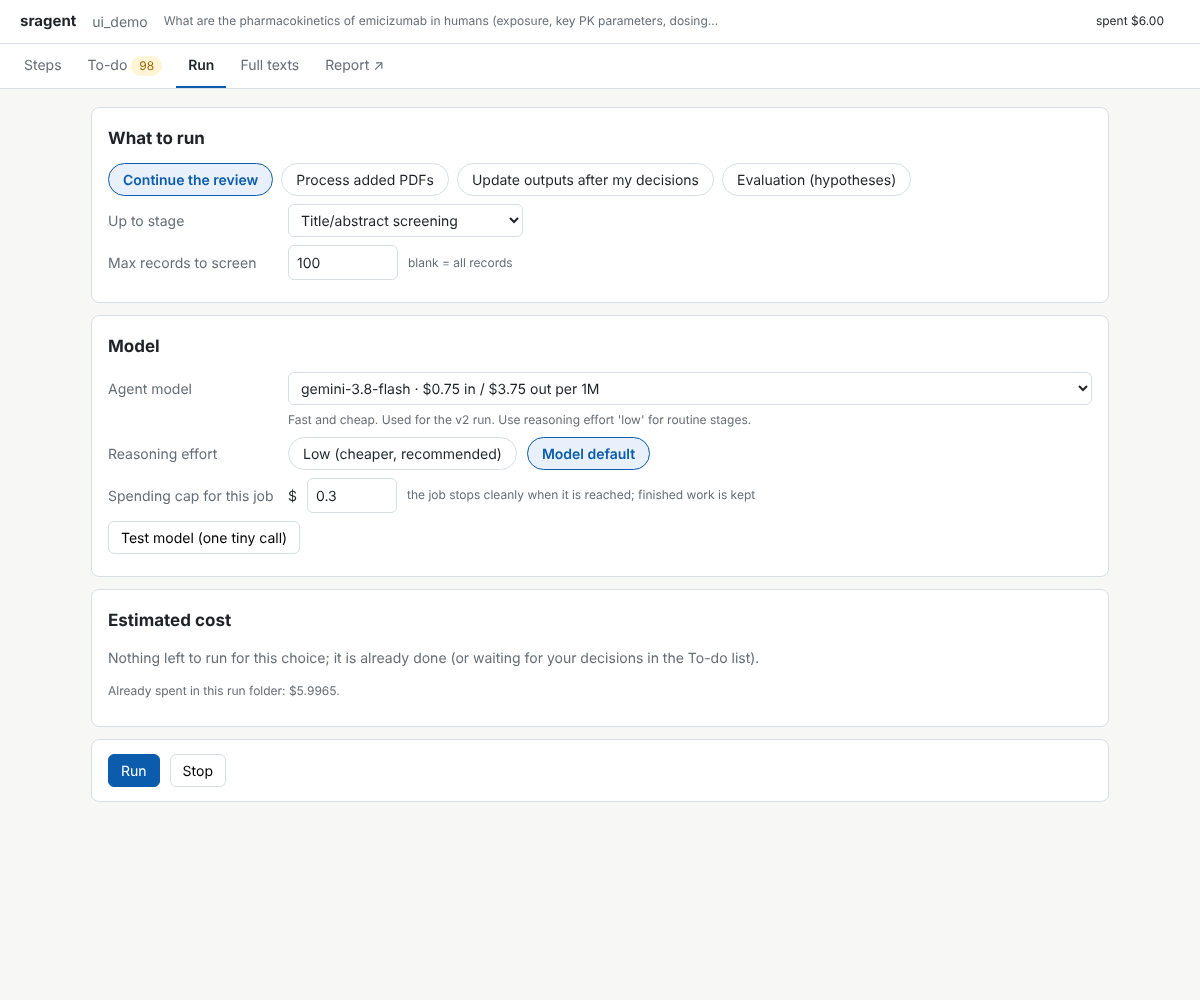
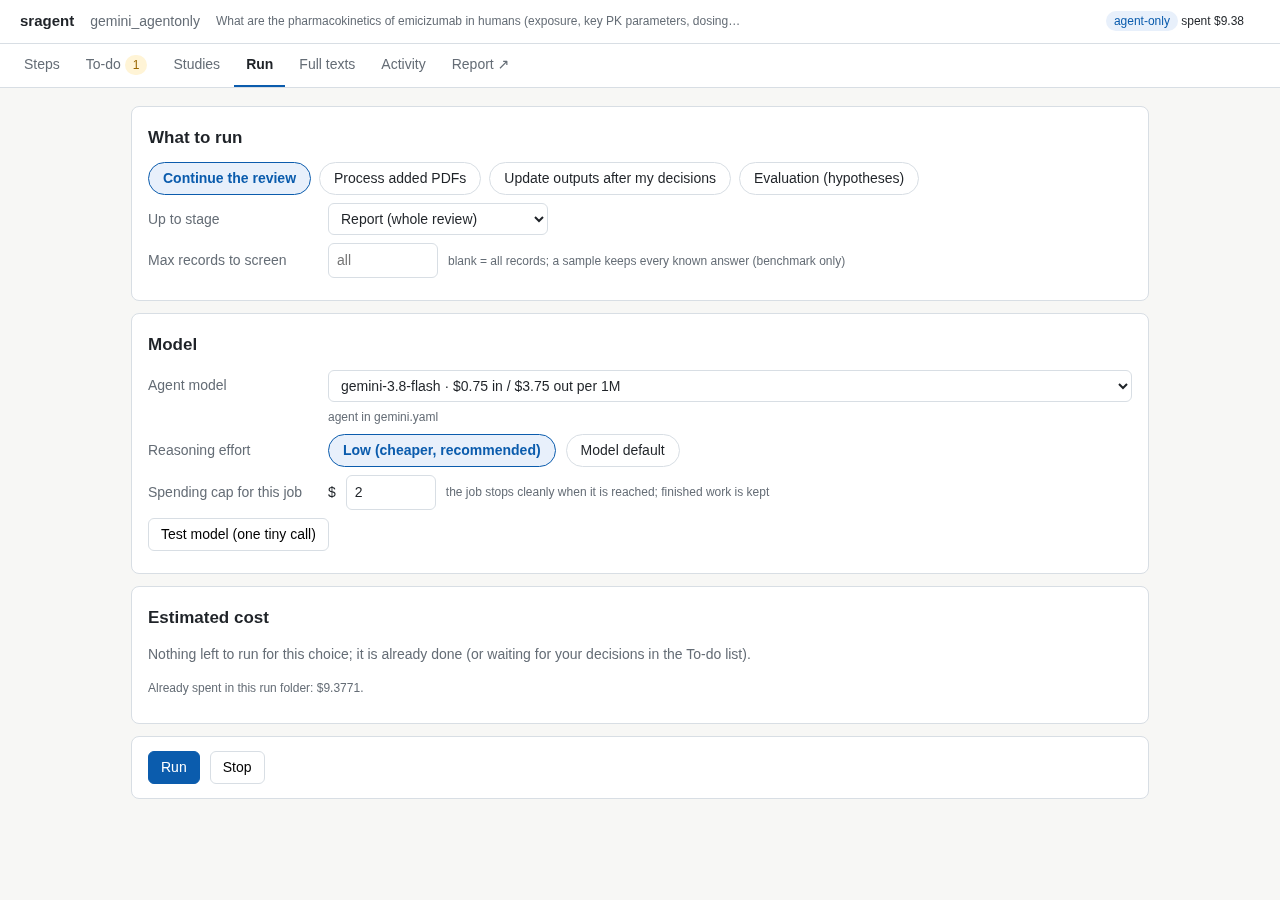
Fix agent-only UI, detect PDFs by content, refresh screenshots
- Show every blocked full text in the to-do list (only "asked for" ones appeared)
- Agent-only mode: hide re-run, edit and send-to-agent controls; protocol step no longer asks for approval
- Detect supplied PDFs by SHA-256 instead of modification time, so copied run folders work
- Document the optional verifier role; update GUIDE module list and UI notes
- Retake screenshots from the current UI; drop the revision screenshot

diff --git a/sragent/ui/static/index.html b/sragent/ui/static/index.html
@@ -528,9 +528,10 @@ function renderStudies(){
        <button class="btn" onclick="loadStudies()">Refresh</button></div></div>
    <div class="card"><h3>Comment on the whole review</h3>
      <textarea id="revc" oninput="ST.revc=this.value" placeholder="e.g. 'Re-check every population statement for scope' or a note for your co-reviewer">${esc(ST.revc||"")}</textarea>
-     <div class="row"><span class="small mut">Agent model</span>${modelPicker(ST, "agent")}
+     ${judging() ? `<div class="row"><span class="small mut">Agent model</span>${modelPicker(ST, "agent")}
        <button class="primary btn" onclick="reviewComment(true)">Send to the agent</button><button class="btn" onclick="reviewComment(false)">Save as a comment only</button><span id="revcm"></span></div>
-     <div class="hint">Sent comments go through the same check as feedback: the agent finds the output it is about, checks it against the source and proposes a change set that you approve in the To-do list.</div></div>
+     <div class="hint">Sent comments go through the same check as feedback: the agent finds the output it is about, checks it against the source and proposes a change set that you approve in the To-do list.</div>`
+     : `<div class="row"><button class="btn" onclick="reviewComment(false)">Save as a comment</button><span id="revcm"></span></div>${AGENT_ONLY_NOTE}`}</div>
    <div class="card" style="padding:0"><table><tr><th>ID</th><th>Study</th><th>Status</th><th>Source</th><th>Flags</th><th>RoB</th><th>Cited in</th><th>💬</th></tr>${rows}</table>
      ${F.length>400?`<p class="small mut" style="padding:8px">Showing 400 of ${F.length}; narrow the filter.</p>`:""}</div>`;
   if (hadFocus) { const qi = $("#studyq"); qi.focus(); qi.setSelectionRange(qi.value.length, qi.value.length); }
@@ -551,6 +552,10 @@ async function openStudy(rid, keepEdit){
 }
 function backToList(){ ST.rid = null; ST.d = null; loadStudies(); }
 function evList(ev){ return (ev||[]).map(e => `<div class="small"><span class="chip">${esc(e.sid)} · ${esc(e.section)}</span> <span class="mut">“${esc(e.text)}”</span></div>`).join(""); }
+// Agent-only mode: people may only supply requested full texts, so judgment controls are not shown
+// (the server refuses them anyway). Comments can still be saved as annotations.
+function judging(){ return !(S && S.run.human_mode === "agent_only"); }
+const AGENT_ONLY_NOTE = `<div class="hint">Agent-only mode: people may only supply the full texts the agent requested, so re-runs, edits and comments sent to the agent are not available. Comments can be saved as notes.</div>`;
 function sec(title, body, right){ return `<div class="card"><div class="row" style="margin:0 0 6px"><h3 style="flex:1;margin:0">${title}</h3>${right||""}</div>${body}</div>`; }
 function renderStudy(){
   const d = ST.d; if (!d) return;
@@ -573,7 +578,7 @@ function renderStudy(){
   // agent actions
   const steps = [["screen","Screening (eligibility)"]].concat(d.group==="included" ? [["extract","Data extraction"]] : []).concat(d.extraction && d.group==="included" ? [["rob","Risk of bias"]] : []);
   const rr = ST.rr;
-  out.push(sec("Ask the agent", `
+  if (judging()) out.push(sec("Ask the agent", `
     <div class="row"><label class="k">Re-run this step</label>${steps.map(([v,l]) => `<span class="opt ${rr.step===v?"sel":""}" onclick="ST.rr.step='${v}';renderStudy();studyEst()">${l}</span>`).join("")}</div>
     <div class="row"><label class="k">Model</label>${modelPicker(ST.rr, "agent")}</div>
     <div class="row"><label class="k">Note for the agent</label><textarea style="flex:1" placeholder="optional, e.g. 'the table on page 5 has the steady-state troughs'" oninput="ST.rr.note=this.value">${esc(rr.note||"")}</textarea></div>
@@ -598,7 +603,7 @@ function renderStudy(){
         ${s.llm_reason?`<div class="small mut">Agent: ${esc(s.llm_reason)}</div>`:""}
         ${s.title_abstract?`<div class="small mut">Title/abstract stage: ${esc(s.title_abstract.decision)}</div>`:""}
         ${crit?`<table style="margin-top:6px"><tr><th>Criterion</th><th></th><th>Assessment</th><th>Evidence</th></tr>${crit}</table>`:""}${ed}`,
-      E.kind==="screen" ? "" : `<button class="btn" onclick="ST.edit={kind:'screen',decision:'${s.decision}',criterion:'',note:''};renderStudy()">Edit</button>`));
+      E.kind==="screen" || !judging() ? "" : `<button class="btn" onclick="ST.edit={kind:'screen',decision:'${s.decision}',criterion:'',note:''};renderStudy()">Edit</button>`));
   }
   // extraction
   if (d.extraction) {
@@ -612,7 +617,7 @@ function renderStudy(){
       `<table><tr><th>Item</th><th>Value</th><th>Evidence (sentence id · section)</th></tr>${rows}</table>
        ${editing?`${editNote()}<div class="row"><button class="primary btn" onclick="saveEdit()">Save (no LLM)</button><button class="btn" onclick="ST.edit=null;renderStudy()">Cancel</button><span id="edmsg"></span></div>
        <div class="hint">The cited sentences stay as the agent's evidence; your value is marked as edited, and the outputs that use it are listed in the To-do list for an optional update.</div>`:""}`,
-      editing ? "" : `<button class="btn" onclick="editExt()">Edit values</button>`));
+      editing || !judging() ? "" : `<button class="btn" onclick="editExt()">Edit values</button>`));
   }
   // rob
   if (d.rob) {
@@ -626,7 +631,7 @@ function renderStudy(){
     out.push(sec(`Risk of bias <span class="small mut">overall <b>${esc(b.overall)}</b> · ${b.confirmed?"confirmed":"draft"} · v${b.version}</span>`,
       `<table><tr><th>Domain</th><th>Judgment</th><th>Rationale</th><th>Evidence</th></tr>${rows}</table>
        ${editing?`${editNote()}<div class="row"><button class="primary btn" onclick="saveEdit()">Save and confirm (no LLM)</button><button class="btn" onclick="ST.edit=null;renderStudy()">Cancel</button><span id="edmsg"></span></div>`:""}`,
-      editing ? "" : `<button class="btn" onclick="editRob()">Edit domains</button>`));
+      editing || !judging() ? "" : `<button class="btn" onclick="editRob()">Edit domains</button>`));
   }
   // synthesis
   if (d.synthesis.length) {
@@ -637,7 +642,7 @@ function renderStudy(){
            <div class="row"><label class="small mut">cites</label><input style="flex:1" value="${esc(E.cites)}" oninput="ST.edit.cites=this.value"></div>${editNote()}
            <div class="row"><button class="primary btn" onclick="saveEdit()">Save (no LLM)</button><button class="btn" onclick="ST.edit=null;renderStudy()">Cancel</button><span id="edmsg"></span></div>`
         : `${esc(s.text)} <span class="small mut">cites ${esc(s.cites.join(", "))} · self-check ${esc(s.support||"-")}</span>
-           <button class="link small" onclick="editSyn('${s.id}')">edit</button>`}</div>`; }).join("")));
+           ${judging() ? `<button class="link small" onclick="editSyn('${s.id}')">edit</button>` : ""}`}</div>`; }).join("")));
   }
   // proposals
   if (d.proposals.length) {
@@ -657,8 +662,9 @@ function renderStudy(){
       <div>${esc(c.text)}</div>${c.status==="open"?`<button class="link small" onclick="resolveComment('${c.id}')">mark resolved</button>`:`<div class="small mut">${esc(c.resolution||"")}</div>`}</div>`).join("")}
     <div class="row"><label class="small mut">About</label><select id="ctarget" onchange="ST.ctarget=this.value">${targets.map(([v,l]) => `<option value="${v}" ${ST.ctarget===v?"selected":""}>${esc(l)}</option>`).join("")}</select></div>
     <textarea id="ctext" placeholder="Your comment" oninput="ST.rcomment=this.value">${esc(ST.rcomment)}</textarea>
-    <div class="row"><button class="primary btn" onclick="studyComment(true)">Send to the agent</button><button class="btn" onclick="studyComment(false)">Save as a comment only</button><span id="cmsg"></span></div>
-    <div class="hint">"Send to the agent" uses the model chosen under "Ask the agent" above. The agent checks your comment against the source text; if it agrees it proposes a revision (shown above and in the To-do list), if it disagrees it explains why.</div>`));
+    ${judging() ? `<div class="row"><button class="primary btn" onclick="studyComment(true)">Send to the agent</button><button class="btn" onclick="studyComment(false)">Save as a comment only</button><span id="cmsg"></span></div>
+    <div class="hint">"Send to the agent" uses the model chosen under "Ask the agent" above. The agent checks your comment against the source text; if it agrees it proposes a revision (shown above and in the To-do list), if it disagrees it explains why.</div>`
+    : `<div class="row"><button class="btn" onclick="studyComment(false)">Save as a comment</button><span id="cmsg"></span></div>${AGENT_ONLY_NOTE}`}`));
   // history
   out.push(sec(`History <span class="chip">${d.history.length}</span>`, `<table><tr><th>When</th><th>Output</th><th>What</th><th>Who</th><th>Why</th></tr>
      ${d.history.slice().reverse().map(h => `<tr><td class="small" style="white-space:nowrap">${fmtT(h.ts)}</td><td class="small">${esc(h.node)}</td>

diff --git a/sragent/stages/fulltext.py b/sragent/stages/fulltext.py
@@ -14,8 +14,10 @@ after adding files; it converts them and re-screens / re-extracts the affected s
 from __future__ import annotations
 
 import csv
+from functools import lru_cache
 from pathlib import Path
 
+from .. import provenance
 from ..context import Ctx
 from ..sources import europepmc
 
@@ -109,7 +111,6 @@ def fetch_one(ctx: Ctx, rid: str) -> dict:
     oa_locs: list[dict] = []
     listed_supp: list[dict] = []
     if local is not None:
-        from .. import provenance
         dig = provenance.file_digest(local)
         if not any(e.get("sha256") == dig["sha256"] for e in provenance.events(ctx.run_dir)):
             provenance.record(ctx, "pdf_provision", "supplied", rid=rid, **dig)
@@ -155,8 +156,7 @@ def fetch_one(ctx: Ctx, rid: str) -> dict:
             "oa_locations": [{k: l.get(k) for k in ("url", "pdf", "host", "version", "license", "source", "download_status")}
                              for l in oa_locs][:5],
             "supplements_listed": listed_supp[:10], "supplements_used": supp_used,
-            "local_file": local.name if local else None,
-            "local_mtime": local.stat().st_mtime if local else None}
+            "local_file": local.name if local else None}
     st.upsert(f"ft:{rid}", "fulltext", data, depends_on=[f"rec:{rid}"], reason=f"retrieved ({origin}; {parser or 'abstract'})")
     return data
 
@@ -200,9 +200,23 @@ def write_needed_pdfs(ctx: Ctx) -> Path:
     return p
 
 
+@lru_cache(maxsize=4096)
+def _sha(path: str, size: int, mtime_ns: int) -> str:
+    return provenance.file_sha(Path(path))
+
+
+def content_sha(p: Path) -> str:
+    """The file's SHA-256 (provenance.file_sha), cached while its size and modification time stay the same."""
+    s = p.stat()
+    return _sha(str(p), s.st_size, s.st_mtime_ns)
+
+
 def new_local_files(ctx: Ctx) -> list[str]:
-    """Record ids with a user file that has not been processed yet (new or changed)."""
+    """Record ids with a user file that has not been processed yet: a new file name, or content whose SHA-256
+    is not in provenance.jsonl (every processed file is recorded there). Decided by content, not by the file's
+    modification time, so copying or restoring the run folder does not make processed files look new."""
     st = ctx.store
+    processed = {e["sha256"] for e in provenance.events(ctx.run_dir) if e.get("sha256")}
     out = []
     for n in st.by_type("record"):
         rid = n["id"].split(":", 1)[1]
@@ -210,6 +224,6 @@ def new_local_files(ctx: Ctx) -> list[str]:
         if f is None:
             continue
         ft = (st.get(f"ft:{rid}") or {}).get("data", {})
-        if ft.get("local_file") != f.name or (ft.get("local_mtime") or 0) < f.stat().st_mtime - 1:
+        if ft.get("local_file") != f.name or content_sha(f) not in processed:
             out.append(rid)
     return out

diff --git a/tests/test_offline.py b/tests/test_offline.py
@@ -192,6 +192,16 @@ def test_todos_answers_and_user_files(tmp_path):
     ids = {t["id"]: t for t in todos.build(ctx)}
     assert "protocol" in ids and "elig:1003" in ids and any(k.startswith("rob:") for k in ids)
     assert all(t["question"] and t["options"] for t in ids.values())
+    # a record whose full-text review is blocked is requested, unless declared not obtainable
+    n = st.get("screen:1004")
+    before = dict(n["data"])
+    st.upsert(n["id"], "screen", {**before, "decision": "fulltext_unavailable", "stage": "retrieval"}, depends_on=n["depends_on"])
+    req = [t for t in todos.build(ctx) if t["id"] == "fulltexts"]
+    assert req and "1004" in str(req[0])
+    st.meta["pdf_unavailable"] = ["1004"]
+    assert not [t for t in todos.build(ctx) if t["id"] == "fulltexts"]
+    st.meta["pdf_unavailable"] = []
+    st.upsert(n["id"], "screen", before, depends_on=n["depends_on"])
     # answers
     assert todos.apply(ctx, {"todo_id": "protocol", "option": "approve"})["ok"]
     assert todos.apply(ctx, {"todo_id": "elig:1003", "option": "exclude", "extra": {"criterion": "I3"}, "text": "no PK"})["ok"]
@@ -207,12 +217,16 @@ def test_todos_answers_and_user_files(tmp_path):
     # user full text: <run_dir>/fulltext/<rid>.txt is picked up, re-screened and re-extracted
     fdir = fulltext.fulltext_dir(ctx)
     (fdir / "1002.txt").write_text("## Methods\n" + "Emicizumab population PK model in 60 children. " * 60)
-    import os, time as _t
-    os.utime(fdir / "1002.txt", (_t.time() + 5, _t.time() + 5))
     assert fulltext.new_local_files(ctx) == ["1002"]
     res = sync.process_pdfs(ctx)
     assert res["processed"] == ["1002"] and st.get("ft:1002")["data"]["origin"].startswith("user file")
     assert fulltext.new_local_files(ctx) == []
+    # decided by content: a copy (new modification time) is not new; changed content is
+    import os, time as _t
+    os.utime(fdir / "1002.txt", (_t.time() + 60, _t.time() + 60))
+    assert fulltext.new_local_files(ctx) == []
+    (fdir / "1002.txt").write_text("## Methods\n" + "Emicizumab population PK model in 64 children. " * 60)
+    assert fulltext.new_local_files(ctx) == ["1002"]
     assert (fdir / "needed_pdfs.csv").exists()
 
 

diff --git a/sragent/ui/steps.py b/sragent/ui/steps.py
@@ -3,6 +3,7 @@ from __future__ import annotations
 
 from collections import Counter
 
+from .. import provenance
 from ..context import Ctx
 from ..todos import STEPS
 
@@ -28,8 +29,9 @@ def steps(ctx: Ctx, todos: list[dict]) -> list[dict]:
     human_dec = sum(1 for n in screens if n["data"].get("human_decision"))
 
     info = {
-        "plan": (bool(proto), "approved" if st.meta.get("protocol_approved") else "drafted, waiting for your approval"
-                 if proto else "not started", "plan"),
+        "plan": (bool(proto), "approved" if st.meta.get("protocol_approved") else
+                 ("drafted by the agent (agent-only: used as drafted)" if provenance.mode(ctx) == "agent_only"
+                  else "drafted, waiting for your approval") if proto else "not started", "plan"),
         "search": (bool(s), f"{s.get('hits', 0)} PubMed hits; {s.get('n_identified', 0)} records, "
                    f"{s.get('n_duplicates', 0)} duplicates removed" if s else "not started", "search"),
         "screen": (bool(screens) and not any(n["data"]["stage"] == "title_abstract" and n["data"]["decision"] != "exclude" for n in screens),

diff --git a/sragent/todos.py b/sragent/todos.py
@@ -102,10 +102,8 @@ def build(ctx: Ctx) -> list[dict]:
             "link": f"/report#screen:{rid}"})
 
     # -- full texts (grouped)
-    need = fulltext.needed_pdfs(ctx)
-    wanted = [x for x in need if x["priority"] == 2 or st.meta.get("pdf_wanted", {}).get(x["rid"])]
     unavailable = set(st.meta.get("pdf_unavailable", []))
-    wanted = [x for x in wanted if x["rid"] not in unavailable]
+    wanted = [x for x in fulltext.needed_pdfs(ctx) if x["rid"] not in unavailable]   # blocked or asked for
     if wanted:
         present = [x for x in wanted if x["present"]]
         todos.append({

diff --git a/sragent/config.py b/sragent/config.py
@@ -56,6 +56,7 @@ DEFAULTS: dict[str, Any] = {
         "judge": {},      # LLM-as-judge for evaluation
         "reviewer": {},   # simulated human reviewer for Claim 1
         "judge2": {},     # second judge for inter-judge agreement
+        "verifier": {},   # optional: checks feedback against the evidence; empty = the agent does it
     },
     "eval": {                         # `sragent eval` only
         "budget_usd": 8.0,            # per evaluation run (each run has its own usage.jsonl)

diff --git a/GUIDE.md b/GUIDE.md
@@ -77,13 +77,17 @@ SRAgent/
   sragent/
     llm.py         provider layer (openai | gemini | local | mock), disk cache, cost tracker, budget
     local.py       reloadable vLLM endpoint pool, managed SSH tunnels, `sragent local-endpoints`
-    config.py      config loading with `include:` layering, key loading from api_env.yaml
+    config.py      config loading with `include:` layering, DEFAULTS (every key), key loading from api_env.yaml
+    context.py     the run context (config, run folder, store, LLM clients)
     store.py       ReviewStore = versioned nodes + dependency graph + change log
-    evidence.py    sentence segmentation and located evidence (ids -> section + offsets)
+    evidence.py    sentence segmentation and located evidence (ids -> section + offsets), section-aware packing
     terms.py       term validation via RxNorm, PubChem, ChEMBL, MONDO (OLS4)
+    rules.py       deterministic screening rules (conference abstracts, reviews, off-topic, date range)
+    gold.py        known answers of benchmark topics, kept outside the agent's store (eval_private/gold.json)
+    provenance.py  human-involvement mode (agent_only / human_in_the_loop) and the log of human input
     prompts.py     every prompt in one file
-    sources/       PubMed (E-utilities), Europe PMC full text, Crossref, SYNERGY loader
-    stages/        planning, search, screening, fulltext, extraction, rob, synthesis, report
+    sources/       PubMed, Europe PMC, Crossref, OpenAlex, Unpaywall, SYNERGY loader, cached HTTP
+    stages/        planning, search, screening, fulltext, snowball (citation chasing), extraction, rob, synthesis, report
     feedback.py    feedback -> verify -> revise -> propagate -> propose / accept
     pipeline.py    orchestration (resumable)
     todos.py       the human to-do list (questions, options, applying answers)
@@ -92,9 +96,11 @@ SRAgent/
     studies.py     study list / study page / exports / global history views
     estimate.py    cost estimate of the remaining work per model
     pdf.py         PDF -> page-marked text
+    docparse.py    full-text parsing: Azure Content Understanding, pdftotext, page images, supplements
     ui/            local web interface (server.py, steps.py, static/index.html)
     cli.py         command line
-    eval/          screening_eval, grounding_eval, inject, claim1, claim2, judge_validation, run_all
+    eval/          run_all (one evaluation run), screening_eval, stagewise, grounding_eval, synthesis_eval,
+                   inject, claim1, claim2, judge_validation, stats, common
   tests/           offline tests + a schema-valid mock LLM
   data/            resolved benchmark records (donners_2021_records.jsonl)
   runs/          run outputs (git-ignored); the same path as the run file under configs/
@@ -249,7 +255,7 @@ Other SYNERGY reviews (26 in total) can be used by changing `records.synergy_key
 ### 7.1 The web interface (recommended)
 
 ```bash
-sragent ui --config configs/review/<your_topic>/gemini.yaml   # opens http://127.0.0.1:8765
+sragent ui --config configs/review/<your_topic>/run.yaml      # opens http://127.0.0.1:8765
 # on OSC or a remote machine:  sragent ui --config ... --no-browser, then  ssh -N -L 8765:localhost:8765 <host>
 ```
 
@@ -259,7 +265,7 @@ It runs on your machine only (standard library web server, no extra install). Ev
 |---|---|
 | **Steps** | The Next step banner, then one row per review step with its status (`done`, `to do`, `needs you`), a one-line summary, and **Run up to here**. |
 | **To-do** | Everything that needs you, in the order you should do it. Repetitive decisions are tables with pre-filled suggestions and one Save button, not one card each (see below). |
-| **Run** | What to run (continue the review up to a stage, process added PDFs, update outputs after your decisions, or an evaluation suite), the **agent model** (API models with their list price per 1M tokens; local models from the endpoint list of section 4, free), reasoning effort, max records and a **spending cap**. A cost estimate for exactly that choice updates live. **Test model** makes one tiny call. **Run** starts a background job with a live log; **Stop** ends it cleanly. |
+| **Run** | What to run (continue the review up to a stage, process added PDFs, update outputs after your decisions, or an evaluation suite), the **agent model** (API models with their list price per 1M tokens; local models from the endpoint list of section 4, free), reasoning effort, max records and a **spending cap**. A cost estimate for exactly that choice updates live. **Test model** makes one tiny call. **Run** starts a background job with a live log; **Stop** ends it cleanly. For a real review (no known answer) the record cap and the evaluation are not offered. |
 | **Studies** | Every record with its current status (included / pending / excluded, and by whom: agent, rule or you), the reason, source used, open flags, RoB, which synthesis statements cite it and comments. Filter, search, copy the PMIDs of what is shown, download the table (CSV) or everything (JSON). A box to comment on the whole review. Click a row for the **study page** (7.1b). |
 | **Full texts** | A copyable, comma-separated **PMID list** with **Open in PubMed**, DOIs for records without a PMID, the folder path, the file name for each study (`<PMID>.pdf`), and **Process added PDFs**. Per study: "decide without it" or "not obtainable". |
 | **Activity** | The global history. **LLM jobs**: every agent task started from the interface (runs, re-runs, comments sent to the agent, updates after your edits) with status (queued, running, done, failed, cancelled), model, cost, duration and the full log; queued jobs can be cancelled. **Agent proposals** (all change sets, accept / reject the open ones), **Comments**, **Your decisions**, **Change history** (every version of every output, filter by agent / you / rules or by output id, CSV download) and **LLM calls by stage**. |
@@ -281,11 +287,11 @@ What the To-do page contains, top to bottom
 
 Decisions stay in sync: excluding a study removes it from the PMID list and from risk of bias immediately; "Update now" (or the to-do that appears after any change) brings extraction and synthesis in line.
 
-Screenshots (from a copy of the v2 review): `docs/ui_steps.png`, `docs/ui_todo_eligibility.png`, `docs/ui_fulltexts.png`, `docs/ui_todo_revision.png`, `docs/ui_run.png`, `docs/ui_studies.png`, `docs/ui_study_page.png`, `docs/ui_todo_rob.png`, `docs/ui_activity.png`.
+Screenshots of the main results (`benchmark/emicizumab_pk/gemini_agentonly`, agent-only): `docs/ui_steps.png`, `docs/ui_todo.png` (in agent-only mode the to-do list only asks for full texts), `docs/ui_fulltexts.png`, `docs/ui_run.png`, `docs/ui_studies.png`, `docs/ui_study_page.png`, `docs/ui_activity.png`. The eligibility and risk-of-bias tables appear only in human-in-the-loop mode; `docs/ui_todo_eligibility.png` and `docs/ui_todo_rob.png` show them on a copy of the same review opened that way.
 
 ![Steps](docs/ui_steps.png)
 
-![To-do: eligibility table](docs/ui_todo_eligibility.png)
+![To-do: eligibility table (human in the loop)](docs/ui_todo_eligibility.png)
 
 Every answer goes to `human_decisions.jsonl` (time-stamped, with your note), which is both an audit trail and research data on human-agent interaction. Answers given while a job is running are queued and applied when it finishes, so a job never overwrites your decisions. Answers that need the LLM (fix this, update now, process PDFs) start a job with the model last chosen in the Run tab.
 

diff --git a/configs/README.md b/configs/README.md
@@ -47,7 +47,7 @@ Other runs are made from these when needed, e.g. the second evaluation condition
 | `gemini.yaml` | Gemini for every role (one API key). Agent gemini-3.8-flash, judge gemini-3.1-pro-preview, second judge gemma-4-31b-it. |
 | `local.yaml` | Your own vLLM servers for every role (free). The servers and the roles each may serve are listed in `local_endpoints.yaml` in the project root (next to `api_env.yaml`); `sragent local-endpoints` edits that list. |
 
-Roles: **agent** does the review; **judge**, **judge2** and **reviewer** are used only by `sragent eval`. The web interface offers every API model named in these files (with its price) plus the local endpoint list, so a price is written in one place only.
+Roles: **agent** does the review; **verifier** (optional) checks feedback against the evidence and re-checks revised outputs, and is the agent unless set; **judge**, **judge2** and **reviewer** are used only by `sragent eval`. The web interface offers every API model named in these files (with its price) plus the local endpoint list, so a price is written in one place only.
 
 ## How to write a config
 
@@ -55,7 +55,7 @@ Roles: **agent** does the review; **judge**, **judge2** and **reviewer** are use
 
 1. **Three kinds of file, one job each.** `topic.yaml` only has `topic:`. A model file only has `llm_defaults:`, `roles:` and (local) `local:`. A run file has `include:` (its folder's `topic.yaml` and one model file) plus run settings.
 2. **Layering.** `include:` files are loaded first, in order; keys in the including file override them. Nested sections merge key by key, so a run file writes only what it changes. Anything not written takes the default from `DEFAULTS` in `sragent/config.py`, which lists every key.
-3. **Roles inherit.** Each role (`agent`, `judge`, `reviewer`, `judge2`) = `llm_defaults` + its own entry under `roles:`. Write in a role only what differs.
+3. **Roles inherit.** Each role (`agent`, `verifier`, `judge`, `reviewer`, `judge2`) = `llm_defaults` + its own entry under `roles:`. Write in a role only what differs.
 4. **Paths.** `include`, `api_env`, `local.endpoints_file` and `models_dir` are relative to the file they are written in. `cache_dir`, `pipeline.fulltext_dir` and the topic's `records.data_dir`, `records.file` and `protocol_file` are relative to the project root (run `sragent` from there). `run_dir` is derived from the run file's path; write it only to override that.
 5. **Naming.** One folder per topic. Benchmark run files are `<models>_<characteristic>.yaml` (e.g. `gemini_agentonly`, `local_agentonly`); a review's run file is `run.yaml`.
 6. **No keys in configs.** API keys live in `api_env.yaml` (project root, git-ignored) or environment variables.
